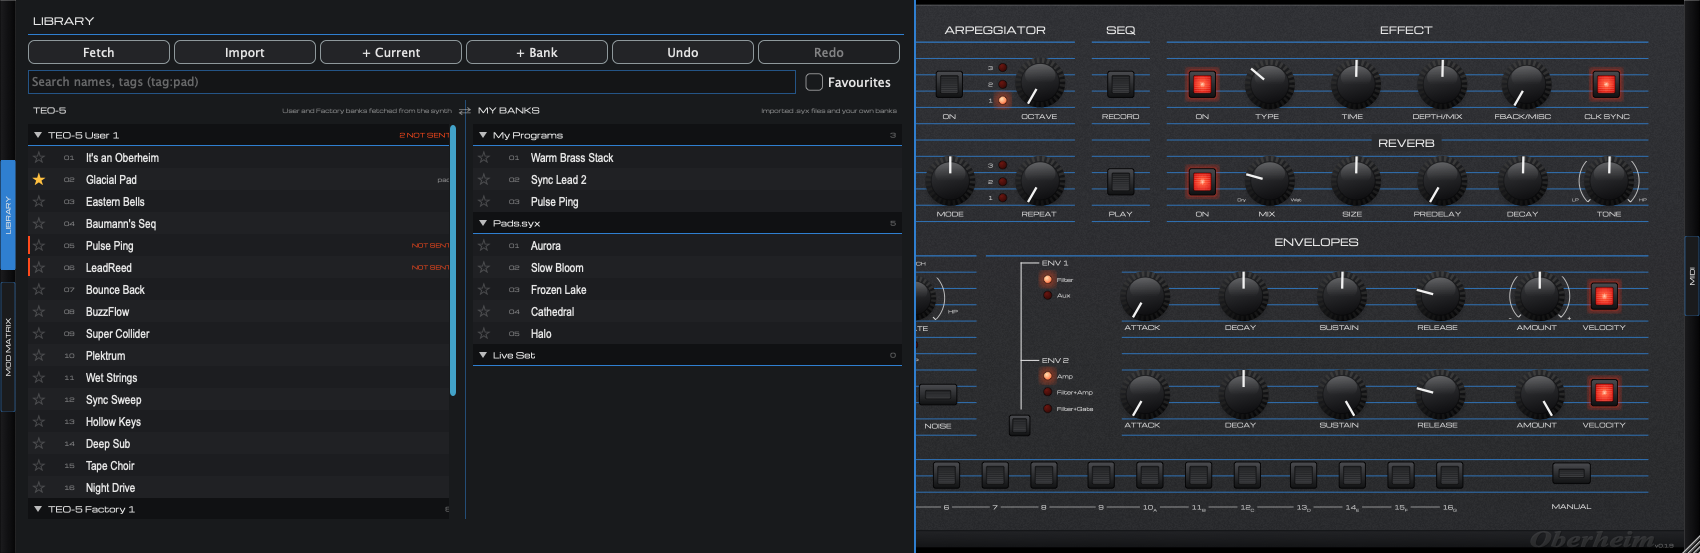
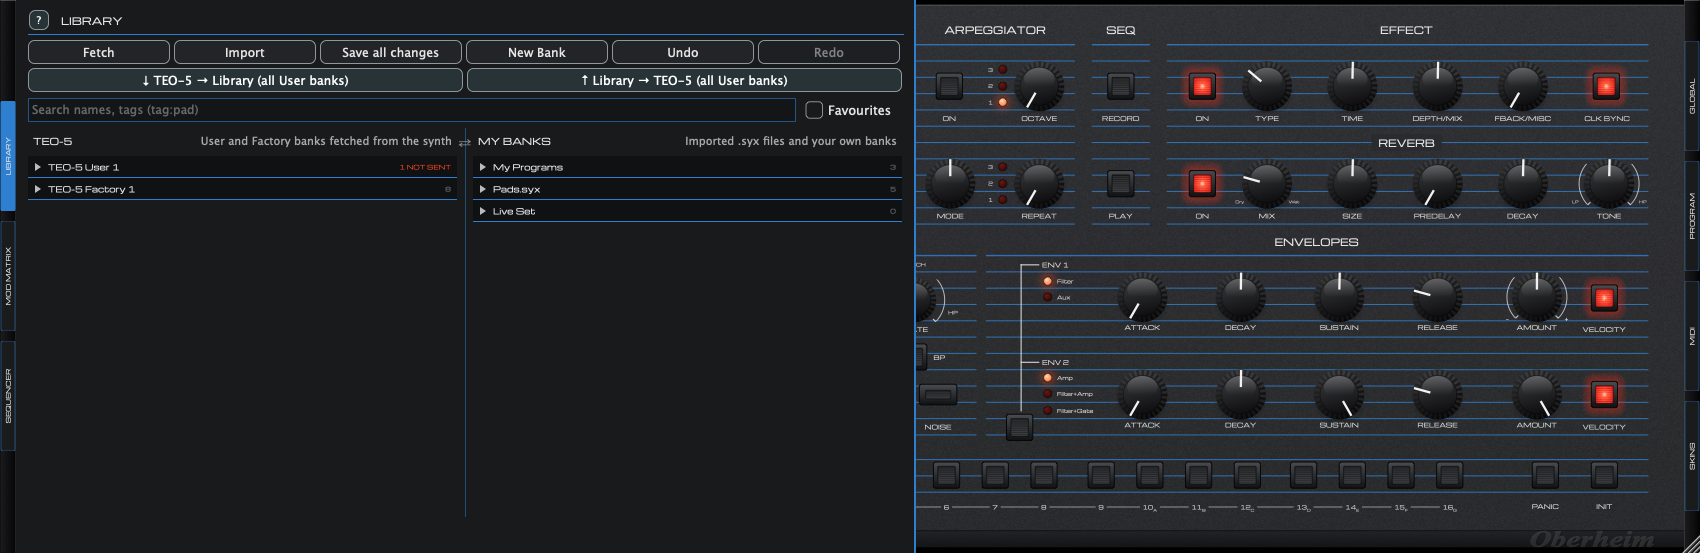
README updated for 1.3.1, with new screenshots in the Current skin

diff --git a/README.md b/README.md
@@ -1,59 +1,125 @@
 # TEO-5 Editor
 
-VST3 / AU / Standalone editor-librarian for the Oberheim TEO-5 desktop module, built with JUCE 8 + CMake.
+Editor and librarian for the Oberheim TEO-5, as a VST3, Audio Unit and standalone app for macOS (Apple Silicon and
+Intel, macOS 11 or later). Built with JUCE 8 and CMake.
 
 ![TEO-5 Editor front panel](docs/screenshots/panel.png)
 
-> Status: version 1.0. The full user's guide is [docs/manual](docs/manual) (built as a PDF into each release);
-> in the editor, the **?** at the top left of the panel opens a guide to the front panel.
-> Front panel, MIDI sync, librarian, mod matrix and sequencer are done and in use with a TEO-5. What changed in each version: [CHANGELOG.md](CHANGELOG.md).
+> **Version 1.3.1.** Download the zip from the [releases page](https://github.com/jwalkermed/Teo-5-Editor/releases).
+> It includes the full user's guide (PDF). In the editor, the **?** at the top left of the panel opens a guide to the
+> front panel. What changed in each version: [CHANGELOG.md](CHANGELOG.md).
 
-## Librarian
+## What it does
 
-Click the **LIBRARY** tab on the left end cheek, or the LIBRARY button next to FACTORY.
+- **Front panel:** every knob and button of the TEO-5, synced both ways over NRPN. Turn a knob on screen and the
+  synth follows; turn one on the synth and the screen follows. While you turn a control, the display shows its new
+  value and, in brackets, the value stored in the program.
+- **Envelope and filter graphs:** turning an ENV 1 / ENV 2 knob, or the filter's CUTOFF, RESONANCE, STATE or BP,
+  draws the envelope or filter response on the display. The graph fades back to the home page when you let go.
+  These drawings are approximate; the TEO-5 doesn't publish the times or frequencies behind its knob positions.
+- **Programs:** BANK and PATCH buttons (or the arrow keys), COMPARE, WRITE, REVERT, INIT (the Basic Program) and PANIC.
+  Opening a saved DAW project sends its program back to the TEO-5's edit buffer.
+- **Librarian:** your TEO-5 banks and your own banks side by side, with search, tags, favourites, drag and drop,
+  .syx import and export, and undo.
+- **Mod matrix:** all 16 slots. Right-click a knob to modulate it from any source, or send a source to any destination.
+- **Sequencer:** a step editor for the program's 64-step, 5-note sequence, with step entry from the on-screen
+  keyboard, the DAW track or the TEO-5's keys.
+- **GLOBAL and PROGRAM drawers** for the settings that have no knob on the panel.
+- **Skins:** ten built-in colour schemes, plus your own.
 
-- **Fetch** pulls the current edit buffer, the current bank, or all user/factory banks from the TEO-5, with a
-  progress bar. Each fetched bank becomes a "TEO-5" bank; fetching the same bank again replaces it (undoable).
-- **Click** (or **Return**) loads a program into the TEO-5 edit buffer. That never writes memory. The SELECT
-  encoder steps through the list and loads after a short pause; VALUE jumps between banks.
-- **Right-click** a program for: load, write to the current panel location, rename, tags, favourite, copy/paste,
-  duplicate, export `.syx`, delete. Right-click a bank to rename, import into it, export it, send it to the TEO-5,
-  re-fetch it, or delete it.
-- **Drag** programs to reorder them or move them between banks. Drop `.syx` files from Finder to import them.
-- **Search** matches names, sources and tags. `tag:pad` searches tags only. **Favourites** filters starred programs.
-- **+ Current** saves the panel's current program into the selected bank.
-- **Undo/Redo** (Cmd+Z / Shift+Cmd+Z) covers every library edit. Cmd+C / Cmd+V / Delete work on the selection.
-- **COMPARE** on the panel toggles between your edit and the program as loaded, as on the hardware.
-  **WRITE** stores the edit in the current BANK/program location. Double-click the OLED to rename the program.
+| | |
+|---|---|
+| ![Filter graph](docs/screenshots/oled-filter.png) | ![Envelope graph](docs/screenshots/oled-envelope.png) |
 
-Anything that overwrites TEO-5 memory (WRITE, "Write to TEO-5 memory", "Send bank to TEO-5") asks for
-confirmation first and names the exact locations.
+## Install
 
-The library lives in `~/Documents/TEO5Editor/Library`: `library.json` holds banks and metadata, and
-`programs/<id>.syx` holds one edit-buffer dump per program. Those files also work with any SysEx librarian.
-A single exported program is an edit-buffer dump; an exported bank is 16 addressed program dumps.
-`TEO5_LIBRARY_DIR` overrides the folder (the tests use this).
+1. Download `TEO-5-Editor-<version>-macOS-Universal.zip` from the
+   [releases page](https://github.com/jwalkermed/Teo-5-Editor/releases) and unzip it.
+2. Open Terminal, type `bash ` (with a space), drag `install.command` from the unzipped folder into the window,
+   and press Return. It installs:
+   - `TEO-5 Editor.vst3` → `/Library/Audio/Plug-Ins/VST3`
+   - `TEO-5 Editor.component` → `/Library/Audio/Plug-Ins/Components` (Audio Unit)
+   - `TEO-5 Editor.app` → `/Applications` (standalone)
+
+   It then runs a load test. Double-clicking `install.command` may be blocked, because the download isn't
+   notarized; running it from Terminal avoids that.
+3. Restart your DAW, or make it rescan its plug-ins. In Ableton Live, turn on **Use VST3 Plug-In System Folders**
+   (Settings → Plug-Ins), then hold Option and click **Rescan**.
 
 ## Connecting to the TEO-5
 
-1. On the TEO-5, press GLOBAL and set **MIDI Param Send = NRPN**, **MIDI Param Receive = NRPN**, **MIDI SysEx = On**,
-   set **MIDI SysEx Cable** to the connection you use (USB or MIDI), and **MIDI Program Send = On**.
-2. In the editor, click the **MIDI** tab on the right end cheek (the GLOBAL/PROGRAM buttons also open it). Pick the TEO-5
-   input/output ports and channel. Use **Find TEO-5** to confirm the connection (it shows the OS version).
-3. Program changes and **Receive edit buffer** update the whole panel; the editor knows the TEO-5's program format.
+1. On the TEO-5, press GLOBAL and set **MIDI Param Send = NRPN**, **MIDI Param Receive = NRPN**,
+   **MIDI SysEx = On**, **MIDI SysEx Cable** = the connection you use (USB or MIDI), and **MIDI Program Send = On**.
+   The editor won't get answers to its SysEx requests while Program Send is off.
+2. In the editor, click the **MIDI** tab on the right end cheek. Pick the TEO-5's input and output ports and the
+   channel, then click **Find TEO-5** to confirm the connection (it shows the synth's OS version).
+3. Program changes and **Receive edit buffer** update the whole panel.
 
-Panel edits are sent immediately as NRPN (or CC, if selected), coalesced and spaced ~1 ms apart. Knob moves on the
-TEO-5 update the panel. **Send all parameters** sends every panel value to the synth. Program buttons send Bank Select + Program
-Change and then fetch the edit buffer. The plugin talks to the ports directly because many DAWs don't pass SysEx.
-MIDI settings are saved with the DAW project. (Routing through the DAW's MIDI instead is kept for a possible Windows
-version, where ports often can't be shared; it's hidden on macOS.)
+Panel edits go out as NRPN (or CC, if you choose it). **Send all parameters** sends every panel value to the synth.
+The plug-in talks to the MIDI ports directly, because many DAWs don't pass SysEx through. MIDI settings are saved with
+the DAW project. The MIDI drawer's monitor lists every message sent and received.
 
-Built plugins are copied to `/Library/Audio/Plug-Ins/VST3` and `~/Library/Audio/Plug-Ins/Components` after
-each build. Turn that off with `-DTEO5_INSTALL_AFTER_BUILD=OFF`.
+![MIDI drawer](docs/screenshots/panel-midi-drawer.png)
+
+**Sequencer and arpeggiator:** when the TEO-5's MIDI Clock is set to In, In Thru or In No S/S, it only runs its
+sequencer and arpeggiator while MIDI clock arrives. In Live, turn on **Sync** for the TEO-5's port under
+Settings → Link, Tempo & MIDI.
+
+## Librarian
+
+Click the **LIBRARY** tab on the left end cheek, or the LIBRARY button on the panel.
+
+![Library](docs/screenshots/panel-library.png)
+
+- **Two panes:** **TEO-5** holds the User and Factory banks fetched from the synth. **MY BANKS** holds imported
+  .syx files and banks you make yourself.
+- **Fetch** gets the edit buffer, one bank, or all User or Factory banks from the TEO-5.
+  **TEO-5 → Library** fetches all 16 User banks; **Library → TEO-5** sends your changes back.
+- **Click** a program to load it into the TEO-5's edit buffer (this never writes memory). Shift- and Cmd-click
+  select without loading.
+- **Right-click** a program to load it, write it to TEO-5 memory, rename it, tag it, favourite it, copy, paste,
+  duplicate, export or delete it. Right-click a bank to rename, import into, export, send or fetch it again.
+- **Drag** programs to swap or move them, or between banks; Option-drag copies. Drop `.syx` files from Finder to
+  import them.
+- **NOT SENT** marks programs in the TEO-5 User banks that differ from what the synth holds. **Save all changes**
+  writes them, and lists what will be overwritten first.
+- **Search** matches names, sources and tags (`tag:pad` searches tags only). **Undo / Redo** (Cmd+Z /
+  Shift+Cmd+Z) cover every library edit.
+- **Factory banks are read-only.** Nothing writes to a factory location.
+
+**WRITE** on the panel opens the library as a picker. Click a User slot or one of your banks to hear what is there,
+then **Confirm** to save (or **Cancel** to put your edit back). Anything that overwrites TEO-5 memory asks first.
+
+The library lives in `~/Documents/TEO5Editor/Library`: `library.json` holds the banks and their details, and
+`programs/<id>.syx` holds one edit-buffer dump per program, which works with any SysEx librarian.
+
+## Mod matrix
+
+![Mod matrix](docs/screenshots/panel-modmatrix.png)
+
+All 16 slots, each with source, amount and destination. Click a slot's light to switch it off and on again. The
+drawer has Clear all, Revert, Undo and Redo. Right-click any knob that is a modulation destination to pick a source
+for it; right-click a source's controls (LFO, ENV 1/2, OSC 2, NOISE) to send it somewhere.
+
+## Sequencer
+
+![Sequencer](docs/screenshots/panel-sequencer.png)
+
+The program's step sequence: up to 64 steps with up to five notes each, with play / rest / tie per step, velocity,
+muting, transpose, copy and paste. Turn on **REC** to enter steps from the on-screen keyboard, the DAW track or the
+TEO-5's own keys. **PLAY** starts and stops the TEO-5's sequencer; with PLAY on, every DAW start restarts the
+sequence at step 1. Edits go to the synth's edit buffer, never to memory. The **?** in the drawer explains it all.
+
+## Skins
+
+![Skins](docs/screenshots/panel-skins.png)
+
+The SKINS tab picks one of ten built-in colour schemes, or makes your own (panel, lettering, pinstripes, LEDs and
+drawers), which you can export and share.
 
 ## Build
 
-Requirements: CMake ≥ 3.22, a C++17 compiler (Xcode / MSVC 2022), JUCE 8.
+Requirements: CMake 3.22 or later, Xcode (a C++17 compiler), JUCE 8.
 
 ```bash
 # Option A: let CMake fetch JUCE 8.0.10
@@ -62,41 +128,47 @@ cmake -B build -DCMAKE_BUILD_TYPE=Release
 cmake -B build -DCMAKE_BUILD_TYPE=Release -DJUCE_PATH=/path/to/JUCE
 
 cmake --build build --config Release --target TEO5Editor_VST3 TEO5Editor_AU TEO5Editor_Standalone
+packaging/make-zip.sh    # -> dist/TEO-5-Editor-<version>-macOS-Universal.zip
 ```
 
-Artefacts land in `build/TEO5Editor_artefacts/Release/`. JUCE 8 bundles the VST3 SDK. To use an external
-SDK, pass `-DTEO5_VST3_SDK=/path/to/vst3sdk`. AU is built on macOS only.
+The build is universal (arm64 and x86_64). Artefacts land in `build/TEO5Editor_artefacts/Release/`, and are copied
+to `/Library/Audio/Plug-Ins` and `/Applications` after each build; turn that off with
+`-DTEO5_INSTALL_AFTER_BUILD=OFF`. `packaging/make-manual.sh` builds the user's guide PDF from `docs/manual`.
 
 ### Panel snapshot
 
-`TEO5Snapshot` renders the editor offscreen to a PNG (used to compare against the hardware photo):
+`TEO5Snapshot` renders the editor offscreen to a PNG. The pictures in this README come from it:
 
 ```bash
 cmake --build build --target TEO5Snapshot
-build/TEO5Snapshot_artefacts/Release/TEO5Snapshot docs/screenshots/panel.png 1.0
+TEO5_SKIN=0 build/TEO5Snapshot_artefacts/Release/TEO5Snapshot docs/screenshots/panel.png 1
 ```
 
-## Layout
+A third argument opens a drawer: `library`, `modmatrix`, `sequencer`, `skins`, `global`, `program`, `drawer` (MIDI)
+or `guide`.
 
-- `Source/Params/`: `ParamTable` is the single table (id, name, NRPN, CC, range, default, kind) that drives
-  the APVTS parameters, the UI and (soon) MIDI.
-- `Source/UI/`: `TEO5LookAndFeel` (knob/button/LED rendering), `Widgets` (Knob, PanelButton, Led,
-  SevenSegment, OledDisplay), `PanelComponent` (front panel laid out in the reference photo's pixel coordinates).
-- `Source/Midi/`: `Nrpn` (encoder + stateful decoder), `SysEx` (packed-MS-bit pack/unpack, requests, dumps),
-  `ProgramLayout` (dump byte layout + inference), `MidiPortManager` (direct ports, rate-limited sender),
-  `MidiSync` (APVTS ⇄ TEO-5, program change, dumps, layout probe, host routing).
-- `Source/Library/`: `LibraryModel` (banks/programs, JSON + .syx persistence, snapshot undo/redo, clipboard,
-  search), `SyxIO` (.syx import/export), `HardwareTransfer` (background fetch / bank send).
-- `Source/UI/LibraryDrawer`: the librarian UI.
+## Source layout
+
+- `Source/Params/`: `ParamTable`, the single parameter table (id, name, NRPN, CC, range, default) that drives the
+  plug-in parameters, the UI and MIDI. Ranges are measured on a TEO-5, not taken from the spec.
+- `Source/Midi/`: NRPN and SysEx encoding, the program's byte layout, the step sequence, the MIDI ports, and
+  `MidiSync`, which keeps the editor and the TEO-5 in step.
+- `Source/Library/`: the library model (banks, persistence, undo, clipboard, search), .syx import and export, and
+  transfers to and from the synth.
+- `Source/UI/`: the front panel, its widgets, skins, and the library, mod matrix, sequencer, settings and skins
+  drawers.
+- `Source/Tools/`: `TEO5Snapshot` and `TEO5PluginCheck` (a load test shipped in the zip).
 
 ## Tests
 
 ```bash
 cmake --build build --target TEO5Tests TEO5LoopbackTest
-build/TEO5Tests_artefacts/Release/TEO5Tests                # SysEx round-trip, NRPN parsing, layout inference
-build/TEO5LoopbackTest_artefacts/Release/TEO5LoopbackTest  # end-to-end against a fake TEO-5 (virtual ports)
+build/TEO5Tests_artefacts/Release/TEO5Tests                # SysEx round trips, NRPN parsing, sequence bytes
+build/TEO5LoopbackTest_artefacts/Release/TEO5LoopbackTest  # end to end against a fake TEO-5 on virtual ports
 ```
-- `docs/TEO5-MIDI-Implementation.txt`: the spec the table is built from. `VERIFY.md` lists every unconfirmed item.
+
+`docs/TEO5-MIDI-Implementation.txt` is the official MIDI spec; it's wrong in several places, and the editor follows
+values measured on a real TEO-5. `VERIFY.md` lists what hasn't been confirmed on hardware.
 
 ## Licence
 
